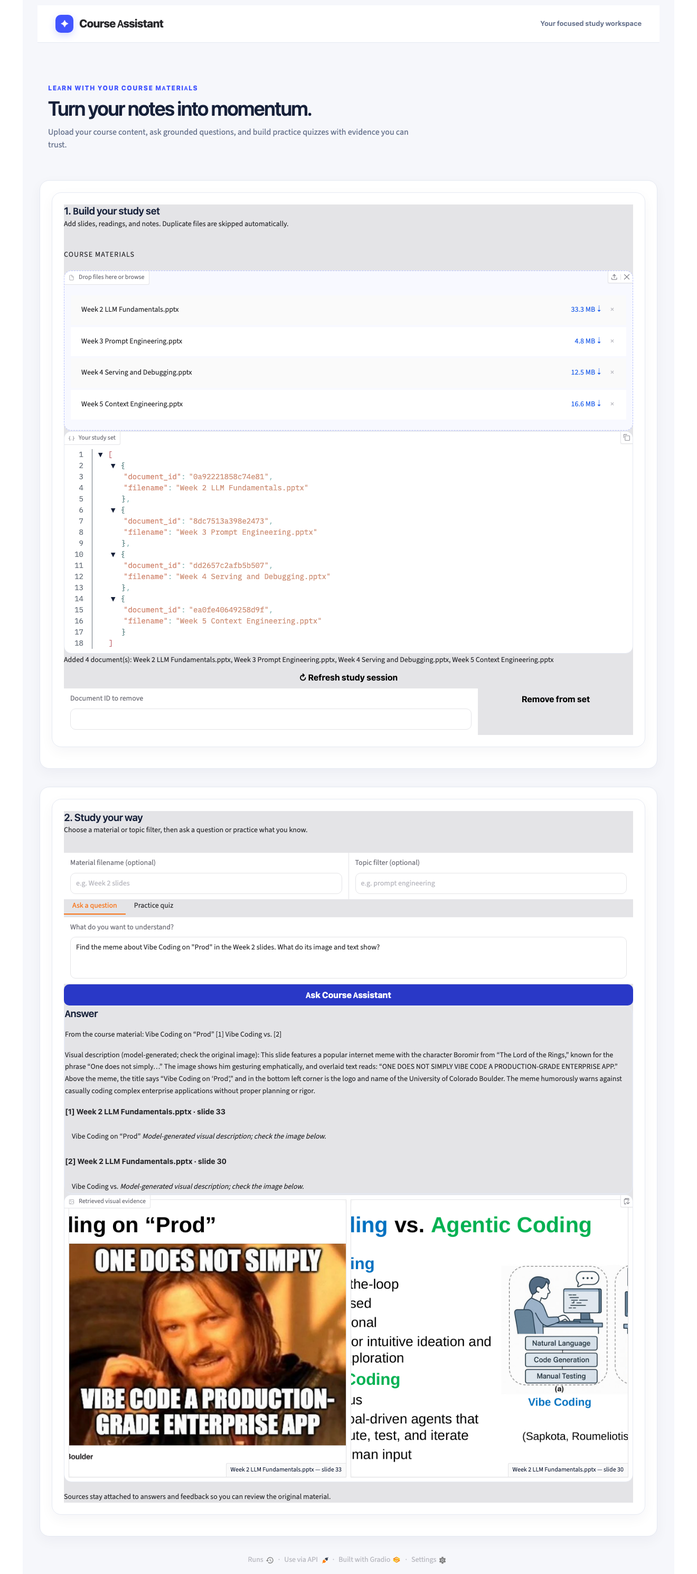
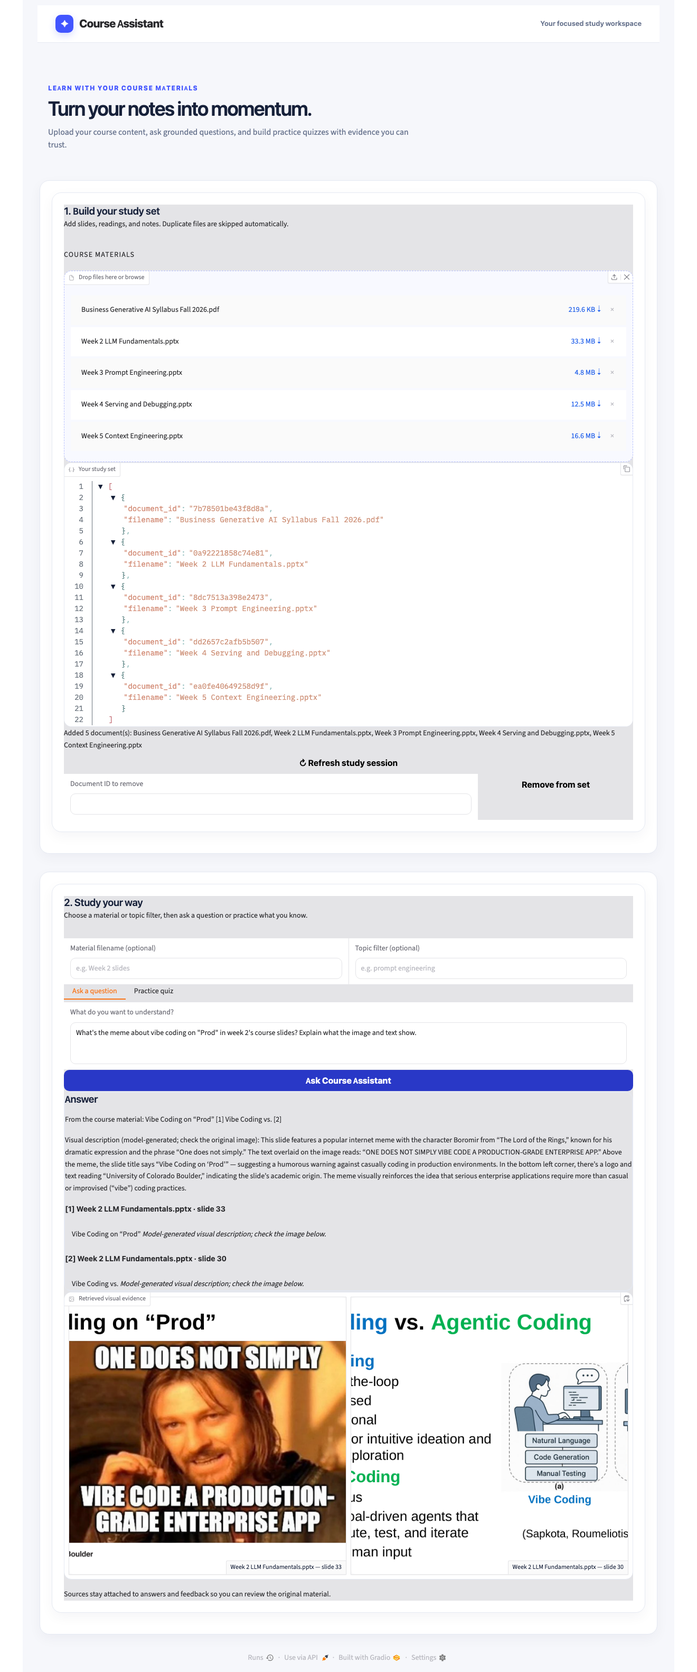
fix: honor the answer model's refusal; final question set with syllabus
- When the class answer model replies that it could not find the information,
  the app now says so and cites nothing. Previously that reply was discarded
  and the app read a loosely matching page back (a Quiz 1 class-average
  question returned the syllabus schedule).
- README Questions section: seven questions covering slide text, the
  syllabus, two visual slides including the Vibe Coding on Prod meme, and
  one unanswerable question, with what the app returned and a reranking
  on/off comparison run on the four decks plus the syllabus.
- Retake both screenshots with the syllabus loaded.
- Add a regression test for the refusal behavior.

diff --git a/tests/test_class_service_contracts.py b/tests/test_class_service_contracts.py
@@ -174,3 +174,32 @@ def test_assistant_prefers_vision_description_and_falls_back_to_the_parser(tmp_p
 
     assert CourseAssistant([], None, Both())._describe_visual(source) == "Vision model description."
     assert CourseAssistant([], None, VisionDown())._describe_visual(source) == "Parser text."
+
+
+def test_model_refusal_is_honored_even_when_keywords_overlap():
+    """The schedule mentions "Quiz 1", but nothing states a class average. When the answer model
+    says it cannot find the information, the app must say so and cite nothing."""
+    from course_assistant.assistant import CourseAssistant
+    from course_assistant.ingest import ingest_text
+
+    class RefusingModel:
+        def embed_text(self, texts):
+            raise RuntimeError("embeddings not needed for this test")
+
+        def generate_answer(self, question, evidence):
+            return "I could not find that information in the selected course materials."
+
+    chunk = ingest_text("Week 6 schedule: Quiz 1 and Assignment 1 review in class, followed by a hands-on lab.", "syllabus.txt")[0]
+    response = CourseAssistant.from_chunks([chunk], service_client=RefusingModel()).ask("What was the class average on Quiz 1?")
+    assert response.answer == "I could not find that information in the selected course materials."
+    assert not response.sources
+
+    class AnsweringModel:
+        def embed_text(self, texts):
+            raise RuntimeError("embeddings not needed for this test")
+
+        def generate_answer(self, question, evidence):
+            return "Quiz 1 and Assignment 1 review in class [1]."
+
+    answered = CourseAssistant.from_chunks([chunk], service_client=AnsweringModel()).ask("When is Quiz 1 and the Assignment 1 review?")
+    assert answered.sources and "Quiz 1" in answered.answer

diff --git a/src/course_assistant/assistant.py b/src/course_assistant/assistant.py
@@ -8,6 +8,8 @@ from .quiz import build_quiz, build_generated_quiz
 from .services import ServiceReranker, image_path_to_data_url
 from .retrieval import HybridRetriever, KeywordIndex, LocalEmbeddingIndex, _tokens, build_service_retriever
 
+_NOT_FOUND = "I could not find that information in the selected course materials."
+
 _FACT_INTENTS = {
     "deadline": ("deadline", "due", "date", "submit by"),
     "weight": ("weight", "percent", "percentage", "%", "worth"),
@@ -144,6 +146,11 @@ class CourseAssistant:
             answer = generator(question, evidence)
             if not answer:
                 return None
+            # The model is told to reply with this exact sentence when the evidence cannot answer
+            # the question. Honor that verdict instead of falling back to reading a loosely
+            # matching page aloud (for example a schedule that merely mentions "Quiz 1").
+            if answer.strip().casefold().startswith(_NOT_FOUND.casefold()[:40]):
+                return _NOT_FOUND
             citations = [int(number) for number in re.findall(r"\[(\d+)\]", answer)]
             # A shared word is not evidence of entailment. Require explicit,
             # in-range provenance; otherwise use the extractive fallback.

diff --git a/README.md b/README.md
@@ -100,7 +100,7 @@ The current merged behavior hides quiz source excerpts until answer/reveal, abst
 
 The implemented baseline is tested locally and documented in `docs/evaluation.md`. The supplied decks were evaluated with ten repeatable questions using the keyword baseline and offline hybrid fallback; aggregate results and returned slide locations are in `docs/evaluation-results.json`. That JSON is the original benchmark record and retains the historical pre-remediation Q10 failure; the current merged code includes the abstention fix and regression test, but the permitted-deck benchmark must be rerun before claiming post-fix quality results. A live comparison with class embeddings/reranking and original-slide visual recall remains pending until authorized course materials, credentials, and the optional rendering stack are available.
 
-**Update, October 5, 2026.** That live run has now been done. The class-service adapters were corrected so the app works with ports 9001 to 9005 turned on, and ten questions were run against the Week 2 to Week 5 decks with the class embeddings, with reranking on and off, and with LibreOffice slide rendering. The questions, answers, and comparison are in the [Questions](#questions) section at the bottom of this README. The earlier keyword and offline-fallback record in `docs/evaluation.md` is kept as history.
+**Update, October 5, 2026.** That live run has now been done. The class-service adapters were corrected so the app works with ports 9001 to 9005 turned on, and seven questions were run against the Week 2 to Week 5 decks and the course syllabus with the class embeddings, with reranking on and off, and with LibreOffice slide rendering. The questions, answers, and comparison are in the [Questions](#questions) section at the bottom of this README. The earlier keyword and offline-fallback record in `docs/evaluation.md` is kept as history.
 
 ## Integrated implementation
 
@@ -141,7 +141,7 @@ The assignment question set, comparison protocol, saved results, and investigate
 
 ## Screenshots
 
-These screenshots were captured on October 5, 2026 from the running app with the class services turned on and the Week 2 to Week 5 decks uploaded as PowerPoint files. The first shows an answer with the retrieved slide image for the Week 2 meme question. The second shows practice quiz feedback with the score, the correct choices, and the source for each question.
+These screenshots were captured on October 5, 2026 from the running app with the class services turned on, the Week 2 to Week 5 decks uploaded as PowerPoint files, and the syllabus uploaded as a PDF. The first shows an answer with the retrieved slide image for the Week 2 meme question. The second shows practice quiz feedback with the score, the correct choices, and the source for each question.
 
 ### Answer with retrieved slide
 
@@ -180,7 +180,7 @@ The paired posts contrast the launch of a no-handwritten-code SaaS with later re
 - LibreOffice remains the preferred path for complete PPT/PPTX/ODP slide rendering. When it is unavailable, PPTX ingestion preserves the largest original embedded picture on each slide so memes, screenshots, charts, and other raster evidence remain available for retrieval. Shape-only diagrams still require full rendering or PDF export.
 - The quiz generator is a deterministic baseline for evaluating retrieval and evidence behavior, with stable keys and source-backed feedback; a richer pedagogical writer can be added without changing the evidence contract.
 - Automated tests cover the dependency-light core, security configuration, source validation, answer-key stability, and service request construction. Live service calls are not run in CI.
-- The class-service request and response formats were corrected on October 5, 2026 after a live run showed the app crashing on the text-embedding reply and the visual-embedding and reranking requests being rejected. The working formats are recorded in `docs/class-services.md` and locked in by `tests/test_class_service_contracts.py`. Slide descriptions now come from the 9001 vision model, with the 9005 parser as a fallback, and embeddings are cached so each slide is sent to the services once per session.
+- The class-service request and response formats were corrected on October 5, 2026 after a live run showed the app crashing on the text-embedding reply and the visual-embedding and reranking requests being rejected. The working formats are recorded in `docs/class-services.md` and locked in by `tests/test_class_service_contracts.py`. Slide descriptions now come from the 9001 vision model, with the 9005 parser as a fallback, and embeddings are cached so each slide is sent to the services once per session. The app also now honors the answer model's explicit "could not find" reply. Before that fix, a question about the Quiz 1 class average was answered by reading the syllabus schedule aloud, because the schedule mentions Quiz 1.
 
 ## License
 
@@ -188,105 +188,95 @@ TBD by the project team.
 
 ## Questions
 
-We wrote ten questions to test the assistant on the Week 2 to Week 5 lecture decks. Five can be answered from slide text, four need the picture on the slide, and one cannot be answered from the materials at all. For each one we give the answer the slides support and then say what our app actually returned.
+We wrote seven questions to test the assistant on the Week 2 to Week 5 lecture decks and the course syllabus. Two can be answered from slide text, two from the syllabus, two need the picture on the slide, and one cannot be answered from the materials at all. For each one we give the answer the materials support and then say what our app actually returned.
 
-The app results come from the code on `main` on October 5, 2026, with the four decks uploaded as PowerPoint files and the class services turned on: the vision model, text embeddings, visual embeddings, the reranker, and LibreOffice slide rendering. In this setup an answer has two parts. The first part is slide text read back with numbered sources. The second part is a short description of the top slide written by the class vision model, which the app labels as model-generated and shows next to the original slide image.
+The app results come from the code on `main` on October 5, 2026, with the four decks uploaded as PowerPoint files, the syllabus uploaded as a PDF, and the class services turned on: the vision model, text embeddings, visual embeddings, the reranker, and LibreOffice slide rendering. In this setup an answer has two parts. The first part is text from the slide or page read back with numbered sources. The second part is a short description of the top slide or page written by the class vision model, which the app labels as model-generated and shows next to the original image.
 
 ### Questions answered from slide text
 
-**1. What is the difference between open-weight and closed-weight LLMs?**
-
-Open-weight models are free to download. You can run them on your own machine or through a cloud API, and running them locally keeps your work private and reproducible. Closed-weight models are the higher performing frontier models. They are easier to use and deploy through an interface or API, but the cost varies with usage or credit allowances. (Week 2, slide 4)
-
-*What the app returned:* The right slide with its image, and the slide text read back, which covers every point above.
-
-**2. How do I read a model name like Qwen3-Coder-30B-A3B-Instruct-FP8?**
-
-Read it left to right. Qwen3 is the model family and Coder is the variant. 30B-A3B is the size and type: about 30 billion parameters in total with about 3 billion active at a time, which tells you it is a mixture of experts model. Instruct means it was tuned to follow instructions, and FP8 is the quantization format. The slide also warns that naming conventions vary. (Week 2, slide 18)
-
-*What the app returned:* The right slide, plus the quantization slide as a second source. The slide uses color to show which part of the name is which, so the text read back alone does not make that clear. The slide description filled the gap and matched each label to its part of the name correctly.
-
-**3. What is ChatML, and how does the same conversation look in JSON?**
-
-ChatML, short for Chat Markup Language, is a prompt template that wraps each message in start and end tokens and labels it with a role such as system, user, or assistant. In JSON, the same conversation is a list of messages where each one has a role and a content field. A template then turns that JSON list into the ChatML text the model reads. (Week 3, slides 8 and 10)
-
-*What the app returned:* Slide 10, which shows the JSON version, the template, and the ChatML result side by side, plus the slide on how a prompt becomes model input. That is enough to answer the question. It did not return slide 8.
-
-**4. What do the slides recommend about branching, issues, and pull requests?**
+**1. What do the Week 4 slides recommend about branching, issues, and pull requests when collaborating on GitHub?**
 
 Use a branch to keep a new feature, a bug fix, or an experiment separate from main, which holds the primary version of the project. When the work is ready, merge it back in. Create issues to keep a record of tasks, discussions, and progress. Open a pull request to propose changes you want merged, so collaborators can review, discuss, and suggest revisions first. (Week 4, slides 25 and 26)
 
-*What the app returned:* Both slides, 26 and 25, so the answer covered all three topics.
+*What the app returned:* Both slides, 26 and 25, with their images. The answer covered issues, pull requests, branching, and merging.
 
-**5. Which chunking strategies are listed for preparing documents for RAG?**
+**2. Which chunking strategies are listed for preparing documents for a RAG system?**
 
 There are four. Fixed size chunking uses a set length, often with overlap. Recursive chunking splits at larger boundaries like paragraphs and then breaks oversized pieces at smaller boundaries like sentences. Document-based chunking keeps related content together using structure such as headings. Semantic chunking splits where the topic or meaning changes. (Week 5, slide 17)
 
 *What the app returned:* Slide 16 on preparing documents first, then slide 17 with the four strategies. All four appear in the answer, after the material from slide 16.
 
+### Questions answered from the syllabus
+
+**3. How is the final course grade broken down according to the syllabus?**
+
+Assignments are 20 percent, quizzes 15 percent, the final project 45 percent, the final exam 15 percent, and attendance and participation 5 percent. (Syllabus, page 2)
+
+*What the app returned:* Page 2 of the syllabus with the grading table read back. All five percentages are in the answer.
+
+**4. What is the penalty for turning in an assignment late?**
+
+The grade drops 10 percent for every calendar day the assignment is late. Nothing is accepted more than five days late. The assignment with the lowest score is dropped from the final grade. (Syllabus, pages 2 and 3)
+
+*What the app returned:* Pages 2 and 3 of the syllabus. The answer included the 10 percent per day penalty with the worked example, the five day limit, and the dropped lowest score.
+
 ### Questions that need the image on the slide
 
-**6. Find the meme about Vibe Coding on "Prod" in the Week 2 slides. What do its image and text show?**
+**5. What's the meme about vibe coding on "Prod" in week 2's course slides? Explain what the image and text show.**
 
 It is the "One does not simply" meme with Boromir from The Lord of the Rings, captioned to say that one does not simply vibe code a production-grade enterprise app. The point is that vibe coding is fine for quick prototypes, but shipping to production takes real engineering and review. (Week 2, slide 33)
 
 *What the app returned:* The right slide and the original meme image. The slide description named the Boromir meme, read the caption off the picture word for word, and explained the joke. The slide has no body text, so everything useful here came from the image.
 
-**7. What does the "Lost in the Middle" chart show about accuracy and where the answer sits in the context?**
+**6. What does the "Lost in the Middle" chart on the context engineering slides show about accuracy versus the position of the document containing the answer?**
 
 The chart is a U-shaped curve. Accuracy is highest when the document with the answer comes first, drops as that document moves toward the middle of the context, and rises again near the end. The slide adds that some newer models resist this effect better, but results still depend on the model and the task. (Week 5, slide 7)
 
-*What the app returned:* The right slide and its image. The slide description gave the axes, described the U shape with high accuracy at the start, low in the middle, and a rise at the end, and noted the flat dashed baseline.
-
-**8. Describe the hybrid RAG pipeline diagram. What are its boxes and where does the reranker sit?**
-
-The diagram starts with the question, which goes down two paths at once. One path is keyword search. The other sends the question through an embedding model and then vector search. Both paths feed a box of candidate chunks. The reranker comes right after that, and the final box is the ranked chunks with their source details, which is what gets passed to the LLM. (Week 5, slide 18)
-
-*What the app returned:* The right slide and its image. The slide description listed the boxes in order and placed the reranker between the candidate chunks and the ranked chunks, which matches the diagram.
-
-**9. In the table of other prompting techniques, what is Tree-of-Thought prompting?**
-
-The table gives it the acronym ToT and cites Yao et al. (2023). It describes giving the model a complex setting where it works through several lines of reasoning, a bit like a chess game, and backtracks when it hits inconsistencies until it settles on the best response. (Week 3, slide 23)
-
-*What the app returned:* The right slide and the image of the table. The slide description listed all seven techniques with their acronyms, including ToT, but it did not give the Tree-of-Thought description or its paper. We count this one as partly answered. The description is written once per slide and is not tailored to the question, so a detail in one row of a table can get left out. The student can still read it off the slide image the app shows.
+*What the app returned:* The right slide and its image. The slide description gave the axes and described the U shape, with high accuracy at the start, low in the middle, and a rise at the end.
 
 ### The question the materials cannot answer
 
-**10. When is Assignment 2 due, and what percentage of the course grade is it worth?**
+**7. What was the class average on Quiz 1?**
 
 *What the app returned:* "I could not find that information in the selected course materials." It cited no sources, which is exactly what we want.
 
-This cannot be answered because the information is not in anything we uploaded. Due dates and grade weights are in the syllabus and on Canvas, and we only gave the app the lecture decks. The decks do include class exercise slides, so a careless system could grab one of those and make up a date. Ours admits it does not know. If the syllabus is uploaded later, this question becomes answerable and a different one should take its place, such as asking for the instructor's phone number.
+This cannot be answered because no document we uploaded reports quiz results. The syllabus says quizzes are worth 15 percent of the grade and its schedule lists Quiz 1 in Week 6, but it says nothing about how the class did. Scores like that would come from Canvas or an announcement, not from slides or a syllabus.
+
+This question also exposed a real failure that we investigated. The first time we ran it, the app did not refuse. Because the schedule mentions "Quiz 1", the search matched that page and the app read the whole schedule back as if it were an answer. When we looked closer, the class answer model had correctly replied that it could not find the information, but the app discarded that reply because it contained no citations and fell back to reading the page aloud. We changed the app to honor the model's "could not find" reply, added a test for it, and reran the question. It now refuses, with reranking on and off.
 
 ### Comparing two approaches: reranking on and off
 
-We ran the same ten questions on the same four decks twice. The only difference was whether the class reranker on port 9004 reordered the retrieved slides. Everything else stayed the same: keyword search, class text embeddings, class visual embeddings, and the vision model. We judged correctness by hand against the answers above. Times are single runs measured from asking to receiving the answer, after the decks were indexed.
+We ran the same seven questions on the same five files twice. The only difference was whether the class reranker on port 9004 reordered the retrieved slides and pages. Everything else stayed the same: keyword search, class text embeddings, class visual embeddings, and the vision model. We judged correctness by hand against the answers above. Times are single runs measured from asking to receiving the answer, after the files were indexed, and they move around with how busy the class servers are.
 
 | | Reranking on | Reranking off |
 |---|---|---|
-| Fully correct | 9 of 10 | 8 of 10 |
-| Partly correct | 1 (question 9) | 2 (questions 4 and 9) |
-| Expected slide returned as the first source | 9 of 9 answerable questions | 9 of 9 answerable questions |
+| Fully correct | 7 of 7 | 6 of 7 |
+| Partly correct | 0 | 1 (question 1) |
+| Expected slide or page returned | 6 of 6 answerable questions | 6 of 6 answerable questions |
+| Sources support the answer | Yes for all six | Yes for five; question 1 is missing the branching slide |
 | Unanswerable question refused | Yes | Yes |
-| Median time per question | 8.7 seconds | 5.3 seconds |
+| Median time per question | 13.9 seconds | 7.6 seconds |
 
-| Question | Reranking on: slides returned, seconds | Reranking off: slides returned, seconds |
+| Question | Reranking on: sources returned, seconds | Reranking off: sources returned, seconds |
 |---|---|---|
-| 1 | Week 2 slide 4, 8.2 | Week 2 slide 4, 3.1 |
-| 2 | Week 2 slides 18 and 15, 12.0 | Week 2 slide 18 and Week 4 slide 13, 5.4 |
-| 3 | Week 3 slides 10 and 6, 8.9 | Week 3 slides 10 and 6, 6.7 |
-| 4 | Week 4 slides 26 and 25, 10.0 | Week 4 slides 26 and 21, 5.4 |
-| 5 | Week 5 slides 16 and 17, 8.5 | Week 5 slides 16 and 17, 4.7 |
-| 6 | Week 2 slides 33 and 30, 7.5 | Week 2 slides 33 and 2, 5.2 |
-| 7 | Week 5 slides 7 and 3, 9.5 | Week 5 slides 7 and 19, 7.4 |
-| 8 | Week 5 slides 18 and 9, 7.4 | Week 5 slides 18 and 11, 4.5 |
-| 9 | Week 3 slides 23 and 13, 10.9 | Week 3 slides 23 and 20, 5.9 |
-| 10 | none, 3.1 | none, 1.2 |
+| 1 | Week 4 slide 26, Week 4 slide 25, 16.6 | Week 4 slide 26, Week 4 slide 21, 6.7 |
+| 2 | Week 5 slide 16, Week 5 slide 17, 13.5 | Week 5 slide 16, Week 5 slide 17, 9.2 |
+| 3 | Syllabus page 2, 13.9 | Syllabus page 3, Syllabus page 2, 7.6 |
+| 4 | Syllabus page 2, Syllabus page 3, 7.0 | Syllabus page 2, Syllabus page 3, 2.4 |
+| 5 | Week 2 slide 33, Week 2 slide 30, 11.2 | Week 2 slide 33, Week 2 slide 2, 8.7 |
+| 6 | Week 5 slide 7, Week 5 slide 3, 15.8 | Week 5 slide 7, Week 5 slide 19, 9.3 |
+| 7 | none, 15.6 | none, 4.4 |
 
-Reranking did not change which slide came first. Fusing the keyword, text, and visual searches already put the expected slide on top for every answerable question. What reranking changed was the second source. In question 4 it brought in the branching slide, which turned a partial answer into a complete one. In question 2 it replaced an unrelated Week 4 slide with the quantization slide, which is on topic. It cost about three and a half seconds per question.
+Reranking did not change whether the main slide or page was found. Combining the keyword, text, and visual searches was already enough for that. What reranking changed was the supporting source and the order. In question 1 it brought in the branching slide, which turned a partial answer into a complete one; without it the app returned a slide about letting a coding agent run GitHub commands, which does not cover branching. In question 3 it put the grading table first, where without it the answer opened with late policy text and only then gave the grade breakdown. The cost was about 6 extra seconds per question in this run.
 
-We would keep reranking on. A study tool that returns the second slide a student needs is worth a few extra seconds, and the reranker is the only step that judges each slide image against the question. If speed mattered more, for example with many students using the app at once, turning it off would still give the right first slide.
+We would keep reranking on. A study tool that returns the second slide a student needs, in a sensible order, is worth the wait, and the reranker is the only step that judges each slide image against the question. If speed mattered more, for example with many students using the app at once, turning it off would still find the right main source.
 
-### What these ten questions tell us
+### What these seven questions tell us
 
-With the class services on, the assistant found the right slide and showed the original image for all nine answerable questions, fully answered eight of them, partly answered one, and correctly refused the one it had no evidence for. Two limits are worth knowing. The text part of every answer was slide text read back, not a rewritten explanation, so answers to broad questions can run long. And the picture description is written per slide, not per question, so a specific detail inside a table or chart can be missing even when the right slide is on screen. For those, a student should read the slide image the app returns.
+With the class services on, the assistant found the right slide or page and showed the original image for all six answerable questions, and it refused the one question it had no evidence for. Three limits are worth knowing.
+
+First, the text part of every answer was material read back from the source, not a rewritten explanation, so answers to broad questions can run long. The class answer model does write clear, cited answers, but the app only accepts wording that closely matches the source and otherwise falls back to reading the source back.
+
+Second, the picture description is written once per slide and is not tailored to the question. In an earlier test outside this set, a question about one row of a table that was pasted in as an image returned the right slide but left that row out of the description. For details like that, a student should read the slide image the app returns.
+
+Third, refusing unanswerable questions depends on the class answer model being reachable. Without it the app falls back to keyword rules, and those rules are what let the Quiz 1 question through before the fix.
